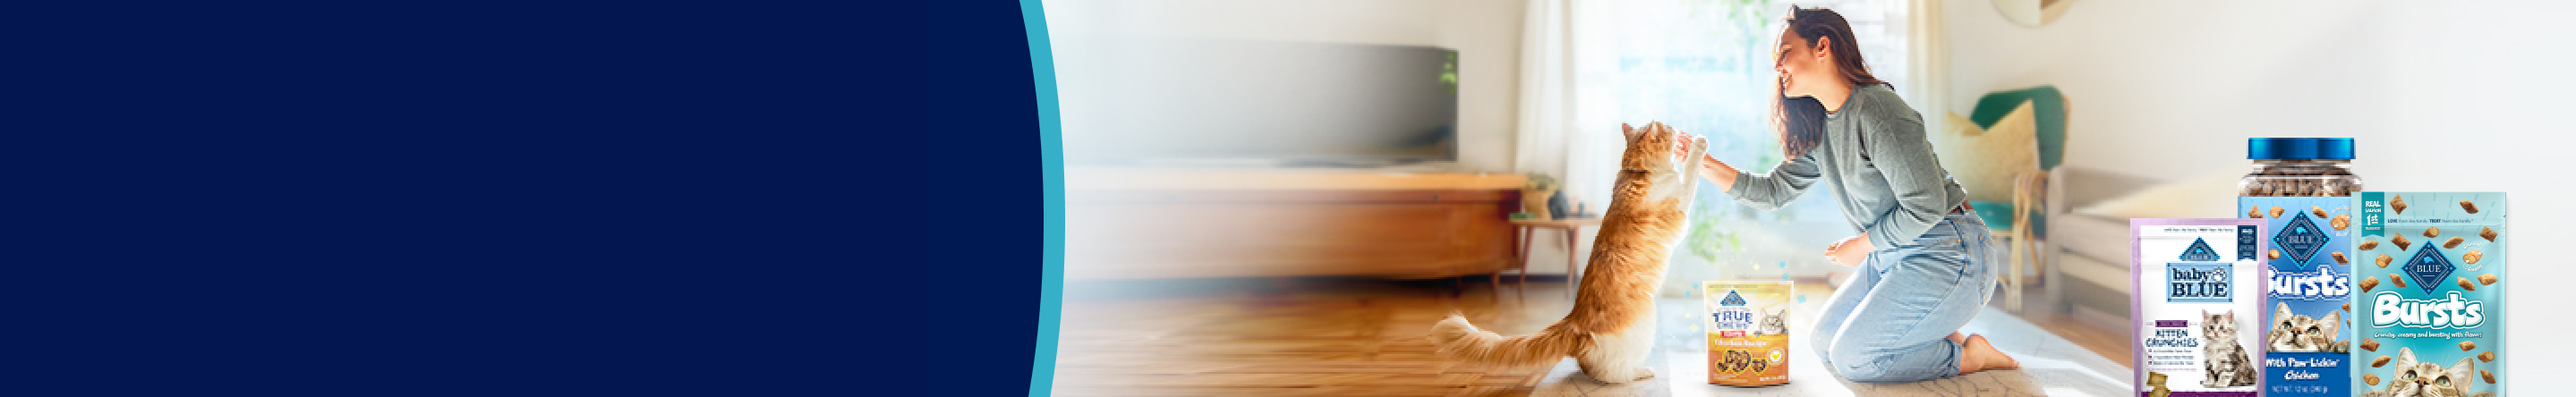
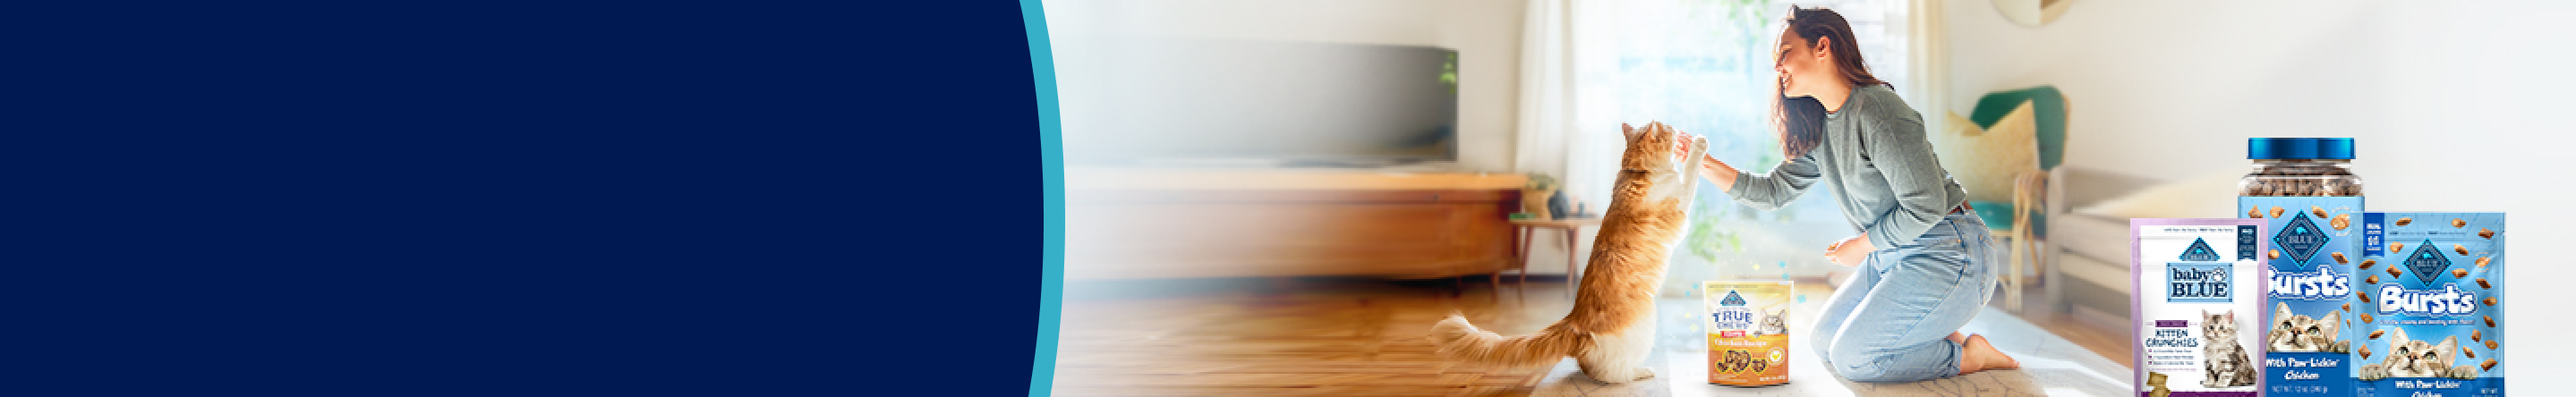
Add files via upload
Desktop POV image 2 revision change, Wholesome section scrolling issue fixed

Changed region(s): [[0.8968, 0.4685, 0.9896, 1.0]]

diff --git a/AEM_Code/index.html b/AEM_Code/index.html
@@ -381,11 +381,6 @@
     padding: 0;
   }
 
-  .citrusBlue_treats__container::-webkit-scrollbar,
-  .citrusBlue_Treats__productCarousal-wrapper::-webkit-scrollbar {
-    display: none;
-  }
-
   .citrusBlue_treats__wrapper {
     width: 100%;
     max-width: 1440px;
@@ -453,6 +448,8 @@
   /* overflow scroll bar hide */
   /* Hide scrollbar for Chrome, Safari and Opera */
   .citrusBlue_treats__container::-webkit-scrollbar,
+  .citrusBlue_treats__tastyFood::-webkit-scrollbar,
+  .citrusBlue_treats__tastyFood .citrusBlue_treats__wholesomeSection::-webkit-scrollbar,
   .citrusBlue_treats_explore_container::-webkit-scrollbar {
     display: none;
   }
@@ -460,6 +457,8 @@
   /* Hide scrollbar for IE, Edge and Firefox */
   .citrusBlue_treats__wrapper,
   .citrusBlue_treats__container,
+  .citrusBlue_treats__tastyFood::-webkit-scrollbar,
+  .citrusBlue_treats__tastyFood .citrusBlue_treats__wholesomeSection::-webkit-scrollbar,
   .citrusBlue_treats_explore_container {
     -ms-overflow-style: none;
     /* IE and Edge */
@@ -577,13 +576,16 @@
     text-align: center;
     margin-top: 45px;
   }
+  .citrusBlue_treats__wholesomeSection {
+    margin: auto;
+    max-width: 100%;
+    width: 976px;
+    display: block;
+  }
   .citrusBlue_treats__tastyFood .citrusBlue_treats__sectionTitle {
     padding-bottom: 10px;
   }
   .citrusBlue_treats__container {
-    width: 976px;
-    max-width: 100%;
-    margin: auto;
     padding: 30px 0;
     overflow: auto;
     text-align: center;
@@ -609,6 +611,7 @@
     line-height: 19.2px;
     margin-top: 20px;
     color: #000;
+    font-weight: 500;
   }
   .citrusBlue_treats_food_category {
     width: 976px;
@@ -1217,7 +1220,7 @@
           <!-- Carousel Image -->
           <img
             class="citrusBlue_treats__desktop-version"
-            src="https://assets.petco.com/petco/image/upload/f_auto,q_auto/citrusBlue_Treats_Slider_2_Desktop"
+            src="https://assets.petco.com/petco/image/upload/f_auto,q_auto/citrusBlue_Treats_Slider_2_RevisionImage_Desktop"
             alt="Woman feeding cat a treat while kneeling on the floor. Packs of Blue Buffalo True Chews, Baby Blue Crunchies, and Bursts."
           />
           <img
@@ -1253,16 +1256,17 @@
 
   <!-- Tasty Treats Food -->
   <section class="citrusBlue_treats__tastyFood">
+    <div>
+      <h2 class="citrusBlue_treats__sectionTitle">
+        Wholesome, tasty treats for dogs and cats
+      </h2>
+    </div>
     <a
       href="https://www.petco.com/shop/en/petcostore/brand/blue-buffalo#facet:390586711411711099104121,390588311110211632383267104101119121,390586810110412110011497116101100,390588411410197116&productBeginIndex:0&orderBy:&pageView:grid&minPrice:&maxPrice:&pageSize:&"
       manual_cm_sp="sponsoredbrandpage:bluebuffalo:conten3up:1:wholesometastytreats:section"
+      class="citrusBlue_treats__wholesomeSection"
       onclick="clickTrackLink(this);"
     >
-      <div>
-        <h2 class="citrusBlue_treats__sectionTitle">
-          Wholesome, tasty treats for dogs and cats
-        </h2>
-      </div>
       <div class="citrusBlue_treats__container">
         <div class="citrusBlue_treats_food_category">
           <!-- Cart Item O1 -->

diff --git a/style.css b/style.css
@@ -4,10 +4,10 @@ body {
   padding: 0;
 }
 
-.citrusBlue_treats__container::-webkit-scrollbar,
+/* .citrusBlue_treats__container::-webkit-scrollbar,
 .citrusBlue_Treats__productCarousal-wrapper::-webkit-scrollbar {
   display: none;
-}
+} */
 
 .citrusBlue_treats__wrapper {
   width: 100%;
@@ -74,21 +74,25 @@ h4 {
 }
 
 /* overflow scroll bar hide */
-/* Hide scrollbar for Chrome, Safari and Opera */
-.citrusBlue_treats__container::-webkit-scrollbar,
-.citrusBlue_treats_explore_container::-webkit-scrollbar {
-  display: none;
-}
+  /* Hide scrollbar for Chrome, Safari and Opera */
+  .citrusBlue_treats__container::-webkit-scrollbar,
+  .citrusBlue_treats__tastyFood::-webkit-scrollbar,
+  .citrusBlue_treats__tastyFood .citrusBlue_treats__wholesomeSection::-webkit-scrollbar,
+  .citrusBlue_treats_explore_container::-webkit-scrollbar {
+    display: none;
+  }
 
-/* Hide scrollbar for IE, Edge and Firefox */
-.citrusBlue_treats__wrapper,
-.citrusBlue_treats__container,
-.citrusBlue_treats_explore_container {
-  -ms-overflow-style: none;
-  /* IE and Edge */
-  scrollbar-width: none;
-  /* Firefox */
-}
+  /* Hide scrollbar for IE, Edge and Firefox */
+  .citrusBlue_treats__wrapper,
+  .citrusBlue_treats__container,
+  .citrusBlue_treats__tastyFood::-webkit-scrollbar,
+  .citrusBlue_treats__tastyFood .citrusBlue_treats__wholesomeSection::-webkit-scrollbar,
+  .citrusBlue_treats_explore_container {
+    -ms-overflow-style: none;
+    /* IE and Edge */
+    scrollbar-width: none;
+    /* Firefox */
+  }
 
 .citrusBlue_treats__sectionTitle {
   text-align: center;
@@ -204,10 +208,16 @@ h4 {
 .citrusBlue_treats__tastyFood .citrusBlue_treats__sectionTitle {
   padding-bottom: 10px;
 }
-.citrusBlue_treats__container {
-  width: 976px;
-  max-width: 100%;
+.citrusBlue_treats__wholesomeSection {
   margin: auto;
+  max-width: 100%;
+  width: 976px;
+  display: block;
+}
+.citrusBlue_treats__container {
+  /* width: 976px;
+  max-width: 100%;
+  margin: auto; */
   padding: 30px 0;
   overflow: auto;
   text-align: center;
@@ -233,6 +243,7 @@ h4 {
   line-height: 19.2px;
   margin-top: 20px;
   color: #000;
+  font-weight: 500;
 }
 .citrusBlue_treats_food_category {
   width: 976px;

diff --git a/index.html b/index.html
@@ -62,7 +62,7 @@
               <!-- Carousel Image -->
               <img
                 class="citrusBlue_treats__desktop-version"
-                src="img/citrusBlue_Treats_Slider_2_Desktop.png"
+                src="img/citrusBlue_Treats_Slider_2_RevisionImage_Desktop.png"
                 alt="Woman feeding cat a treat while kneeling on the floor. Packs of Blue Buffalo True Chews, Baby Blue Crunchies, and Bursts."
               />
               <img
@@ -100,16 +100,18 @@
 
       <!-- Tasty Treats Food -->
       <section class="citrusBlue_treats__tastyFood">
+        <div>
+          <h2 class="citrusBlue_treats__sectionTitle">
+            Wholesome, tasty treats for dogs and cats
+          </h2>
+        </div>
         <a
           href="https://www.petco.com/shop/en/petcostore/brand/blue-buffalo#facet:390586711411711099104121,390588311110211632383267104101119121,390586810110412110011497116101100,390588411410197116&productBeginIndex:0&orderBy:&pageView:grid&minPrice:&maxPrice:&pageSize:&"
           manual_cm_sp="sponsoredbrandpage:bluebuffalo:conten3up:1:wholesometastytreats:section"
+          class="citrusBlue_treats__wholesomeSection"
           onclick="clickTrackLink(this);"
         >
-          <div>
-            <h2 class="citrusBlue_treats__sectionTitle">
-              Wholesome, tasty treats for dogs and cats
-            </h2>
-          </div>
+          
           <div class="citrusBlue_treats__container">
             <div class="citrusBlue_treats_food_category">
               <!-- Cart Item O1 -->
